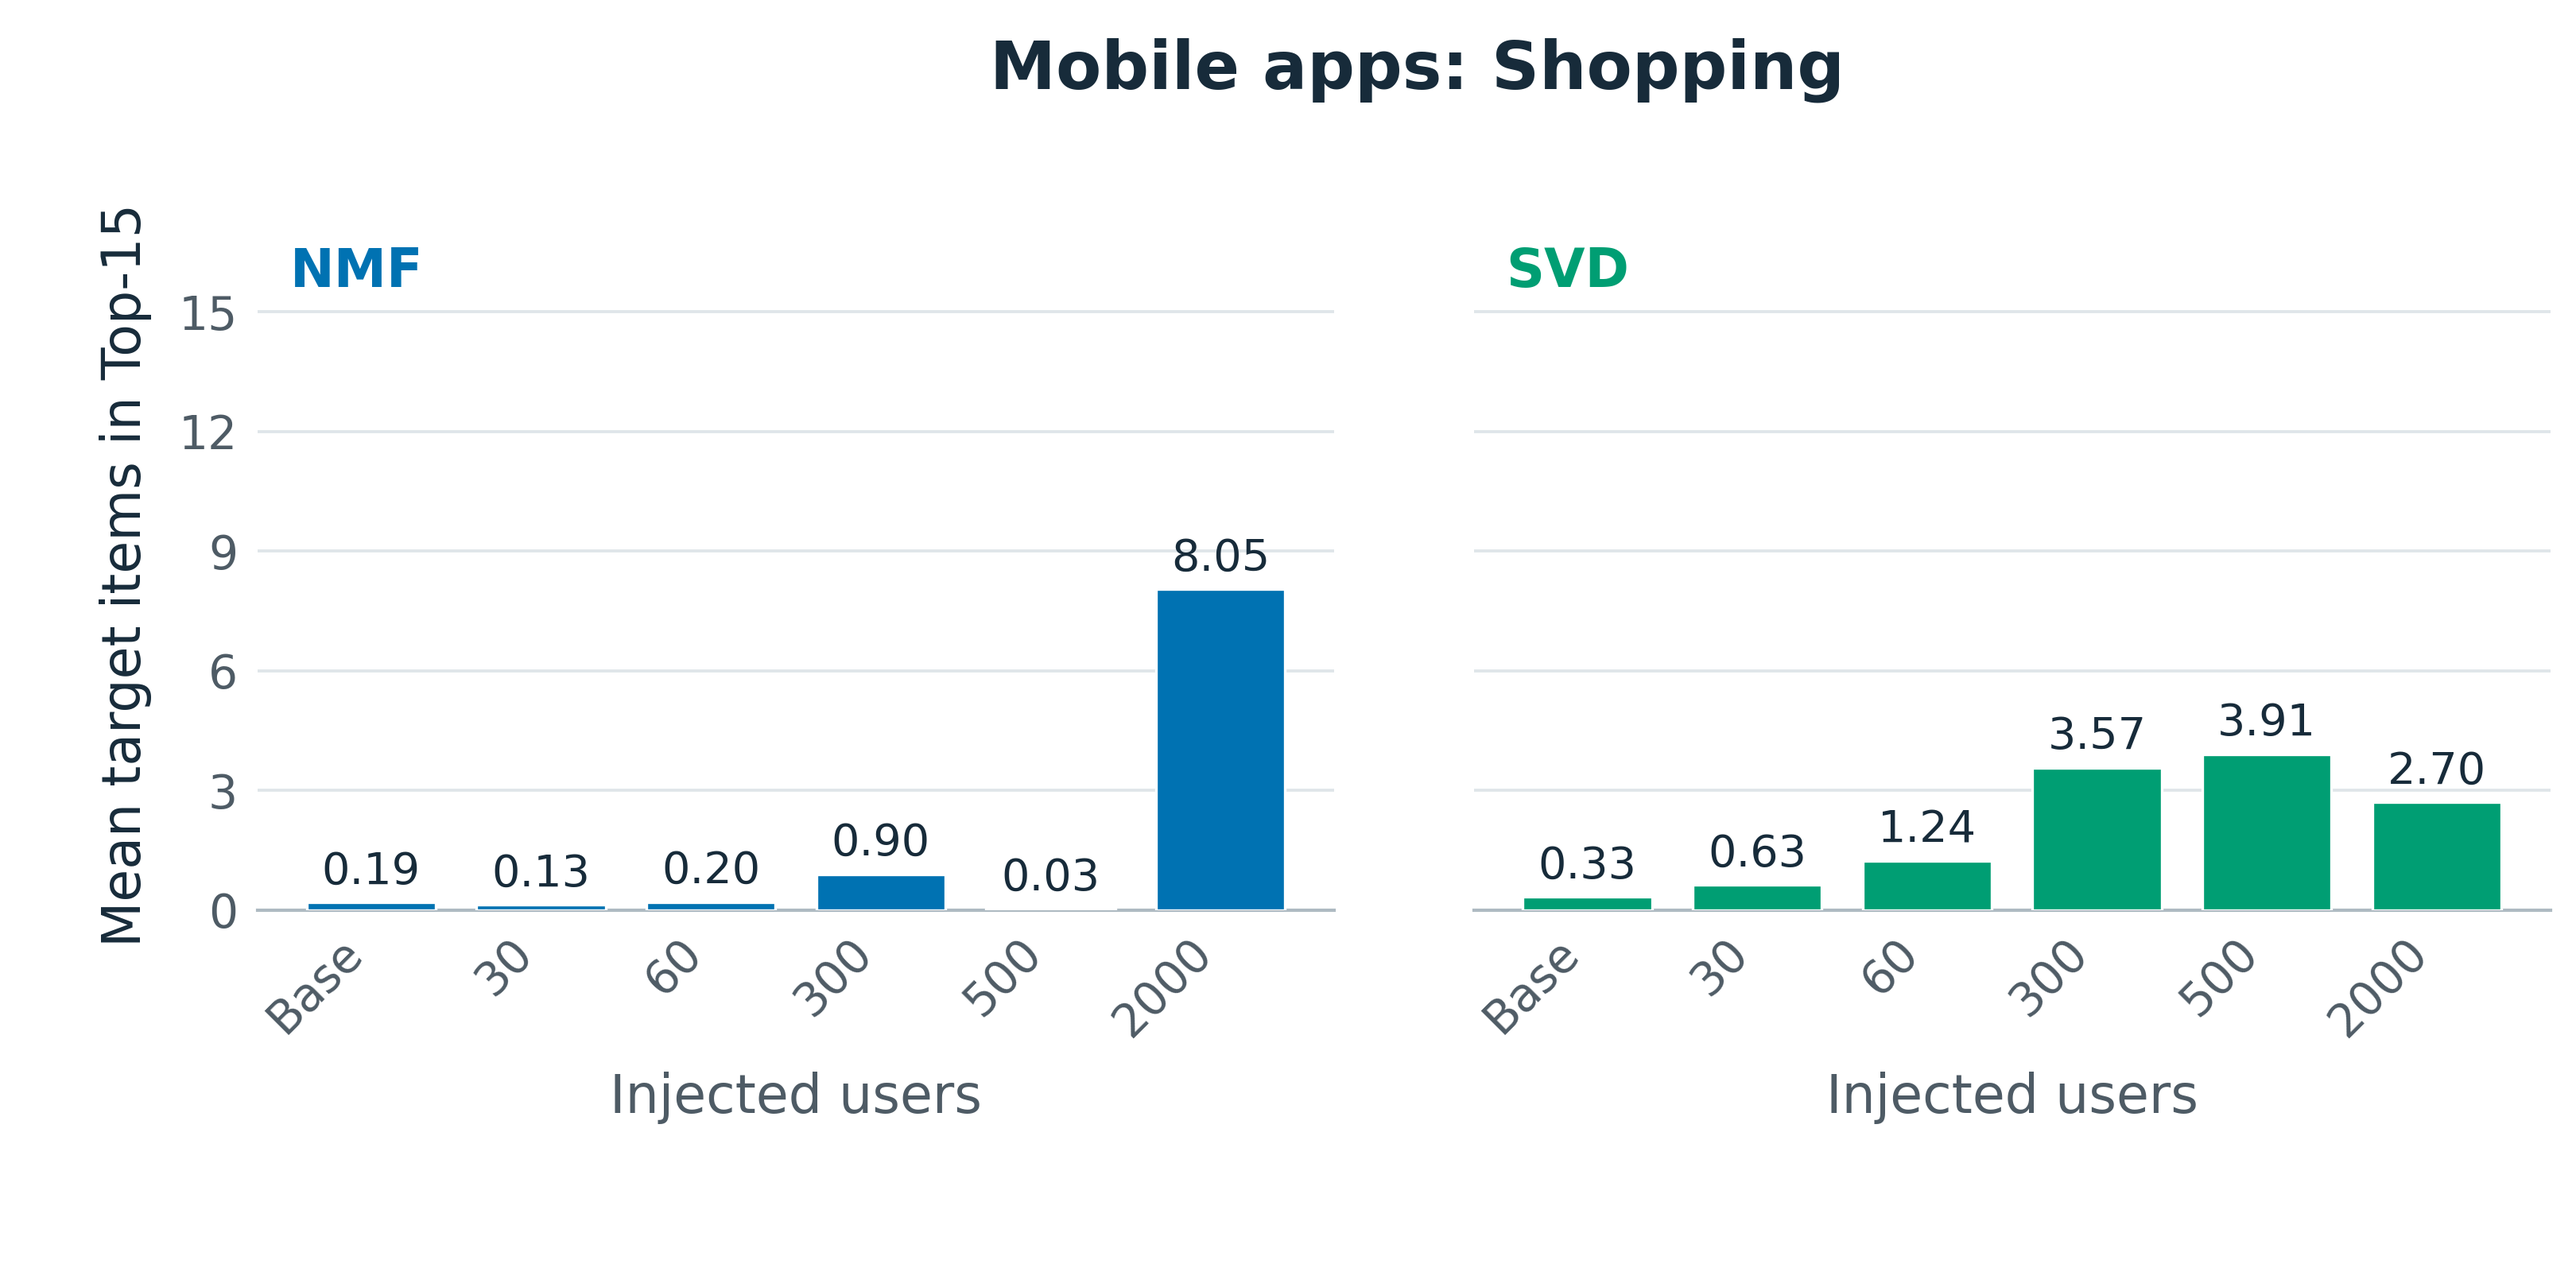
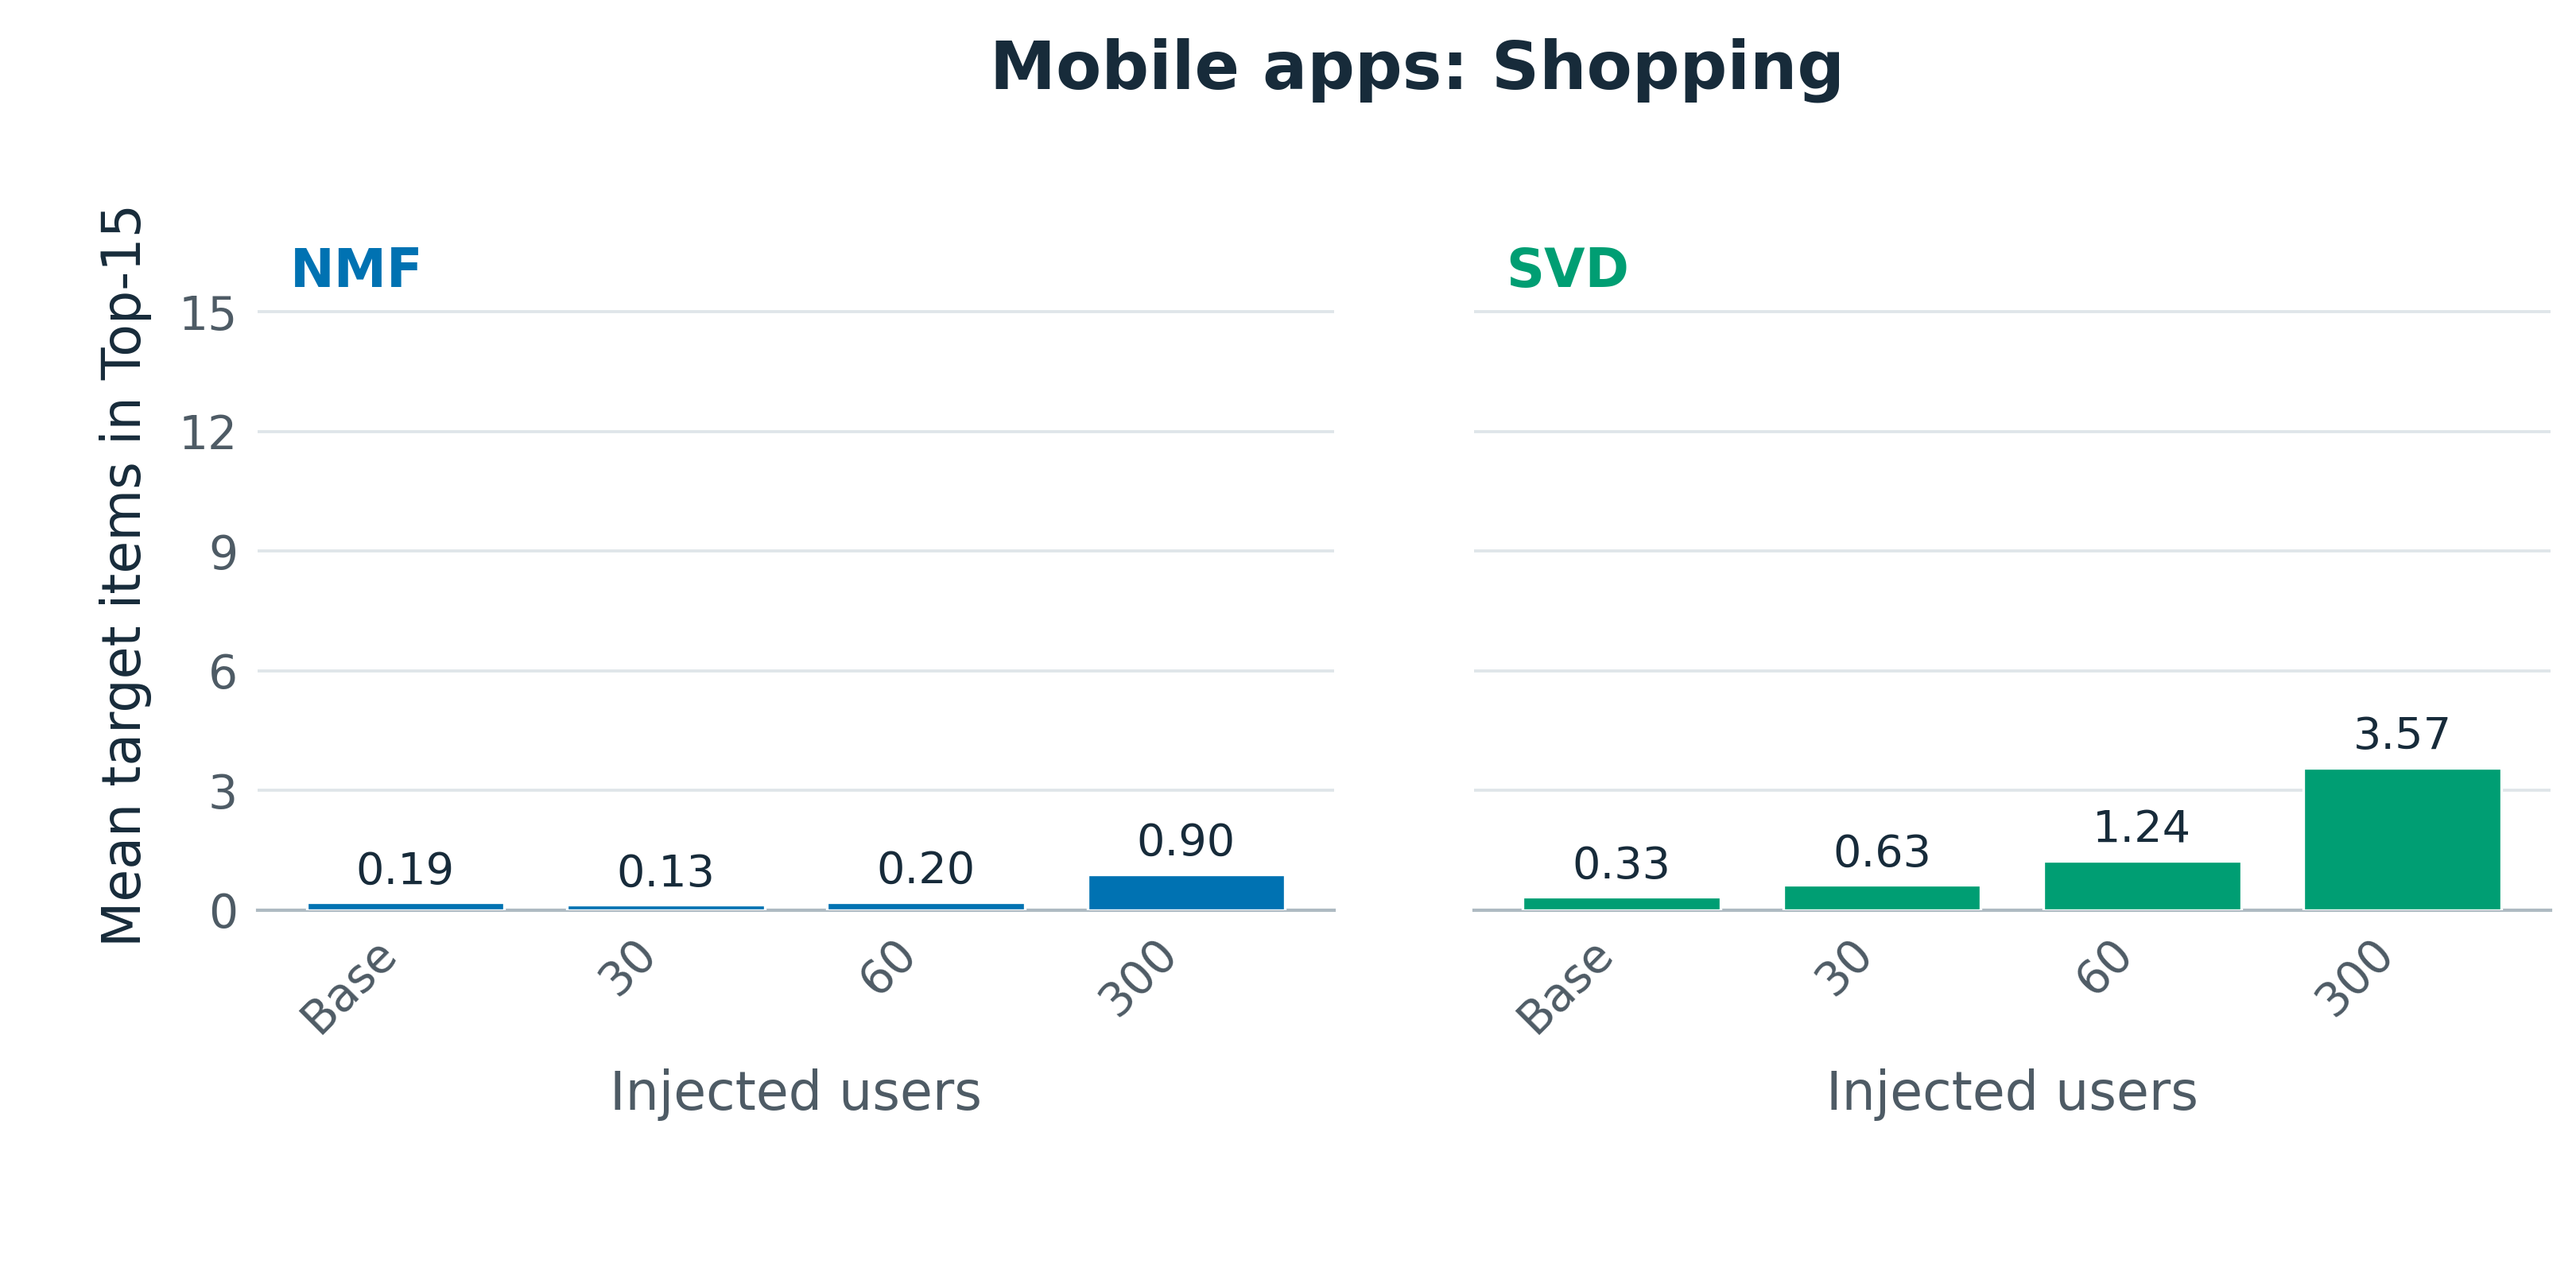
Limit mobile exposure panels to 300 injected users

diff --git a/First_paper_material/Book/notebook/build_recommendation_exposure.py b/First_paper_material/Book/notebook/build_recommendation_exposure.py
@@ -9,7 +9,7 @@ from matplotlib.ticker import MultipleLocator
 ROOT=Path('/home/moshtasa/Research/phd-recsys');OUT=ROOT/'First_paper_material/Book';DATA=OUT/'data';SINGLE=OUT/'recommendation_exposure';DATA.mkdir(parents=True,exist_ok=True);SINGLE.mkdir(parents=True,exist_ok=True)
 L=ROOT/'Book/current/PerturbRec/svd_nmf/layer1'
 book_file=L/'tables/controlled_thriller_top15.csv';book=pd.read_csv(book_file)
-configs=[('Books','Thriller',500,53424,'book_thriller_top15.png'),('Mobile apps','Shopping',2000,700111,'mobile_shopping_top15.png'),('Movies','1990s',50,943,'movie_1990s_top15.png')]
+configs=[('Books','Thriller',500,53424,'book_thriller_top15.png'),('Mobile apps','Shopping',300,700111,'mobile_shopping_top15.png'),('Movies','1990s',50,943,'movie_1990s_top15.png')]
 records=[];sources=[]
 def parse(path):
  current=None;result={}
@@ -29,14 +29,14 @@ for dataset,target,limit,N,name in configs:
    check=pd.read_csv(L/'tables/topk_target_union/summary.csv');check=check[(check.model==model)&(check.genre=='Thriller')&(check.k==15)&(check.n_fake<=500)].sort_values('n_fake');assert np.allclose(d.mean_target_count.to_numpy(),check.mean_target_count.to_numpy(),atol=1e-12)
   elif dataset=='Mobile apps':
    source=ROOT/f'Mobile/archive/0405/0405_{model.upper()}/result/{model.upper()}_bar_figures/{model}_shopping_analysis/{model.upper()} - Shopping.txt';pairs={n:v for n,v in parse(source).items() if n<=limit}
-   assert sorted(pairs)==[0,30,60,300,500,2000]
+   assert sorted(pairs)==[0,30,60,300]
   else:
    source=ROOT/f'Movie /current/0519/{model.upper()}_0519/result/0519_{model.upper()}_bar_figures/{model}_decade_1990_analysis/{model.upper()} - Decade 1990.txt';pairs=parse(source);assert sorted(pairs)==[0,2,6,10,50]
   for n,(value,users) in sorted(pairs.items()):
    assert 0<=value<=15 and users==N
    records.append(dict(dataset=dataset,target=target,model=model.upper(),k=15,n_fake=n,n_real_users=users,mean_target_count=value,source=str(source),source_precision='full CSV precision' if dataset=='Books' else 'four decimals in original analysis output'))
   sources.append({'dataset':dataset,'model':model.upper(),'file':str(source),'sha256':hashlib.sha256(source.read_bytes()).hexdigest()})
-df=pd.DataFrame(records);assert len(df)==40;assert not df.duplicated(['dataset','model','n_fake']).any()
+df=pd.DataFrame(records);assert len(df)==36;assert not df.duplicated(['dataset','model','n_fake']).any()
 df.to_csv(DATA/'recommendation_exposure_top15.csv',index=False)
 NAVY='#172B3A';MUTED='#4E5B65';COLORS={'NMF':'#0072B2','SVD':'#009E73'}
 plt.rcParams.update({'font.family':'DejaVu Sans','font.size':8,'axes.titlesize':9,'axes.titleweight':'bold','axes.labelsize':8,'xtick.labelsize':7,'ytick.labelsize':7,'axes.spines.top':False,'axes.spines.right':False,'axes.spines.left':False,'axes.linewidth':.5,'savefig.facecolor':'white','figure.facecolor':'white'})
@@ -68,7 +68,7 @@ for dataset,target,limit,N,name in configs:
  fig.suptitle(f'{dataset}: {target}',fontsize=10,fontweight='bold',color=NAVY,x=.55,y=.97)
  fig.subplots_adjust(left=.10,right=.99,top=.81,bottom=.28,wspace=.13)
  fig.savefig(SINGLE/name,dpi=600);plt.close(fig)
-(OUT/'recommendation_exposure_caption.md').write_text('Mean number of target-category items in the top-15 recommendations for original users: (a) Thriller books, (b) Shopping applications, and (c) movies released in the 1990s. NMF and SVD are shown in the top and bottom rows, respectively. Book injections extend to 500 users, mobile injections to 2,000 users, and movie injections to 50 users. Baseline denotes training without synthetic users.\n\nThe x-axis is categorical within each dataset; injection counts and original user populations differ between datasets. The shared y-axis counts items out of 15.\n\nFor full-width display with the MDPI class, use an adjustwidth environment with arguments {-\\extralength}{0cm} and include the PNG at width=\\fulllength.\n')
-validation={'rows':len(df),'k':15,'no_retraining':True,'book_matches_two_controlled_CSVs':True,'dose_limits':{'Books':500,'Mobile apps':2000,'Movies':50},'sources':sources,'source_numeric_values_unchanged':True,'combined_layout':'2 model rows x 3 dataset columns','all_y_axes_shared':True,'png_dpi':600,'source_precision_note':'Mobile and movie means are faithfully reproduced at the four-decimal precision saved by their original analysis scripts.'}
+(OUT/'recommendation_exposure_caption.md').write_text('Mean number of target-category items in the top-15 recommendations for original users: (a) Thriller books, (b) Shopping applications, and (c) movies released in the 1990s. NMF and SVD are shown in the top and bottom rows, respectively. Book injections extend to 500 users, mobile injections to 300 users, and movie injections to 50 users. Baseline denotes training without synthetic users.\n\nThe x-axis is categorical within each dataset; injection counts and original user populations differ between datasets. The shared y-axis counts items out of 15.\n\nFor full-width display with the MDPI class, use an adjustwidth environment with arguments {-\\extralength}{0cm} and include the PNG at width=\\fulllength.\n')
+validation={'rows':len(df),'k':15,'no_retraining':True,'book_matches_two_controlled_CSVs':True,'dose_limits':{'Books':500,'Mobile apps':300,'Movies':50},'sources':sources,'source_numeric_values_unchanged':True,'combined_layout':'2 model rows x 3 dataset columns','all_y_axes_shared':True,'png_dpi':600,'source_precision_note':'Mobile and movie means are faithfully reproduced at the four-decimal precision saved by their original analysis scripts.'}
 (DATA/'recommendation_exposure_validation.json').write_text(json.dumps(validation,indent=2))
 print(df[['dataset','model','n_fake','mean_target_count']].to_string(index=False));print('SAVED',OUT/'recommendation_exposure_top15.png');print('SEPARATE',SINGLE)

diff --git a/First_paper_material/Book/recommendation_exposure_caption.md b/First_paper_material/Book/recommendation_exposure_caption.md
@@ -1,4 +1,4 @@
-Mean number of target-category items in the top-15 recommendations for original users: (a) Thriller books, (b) Shopping applications, and (c) movies released in the 1990s. NMF and SVD are shown in the top and bottom rows, respectively. Book injections extend to 500 users, mobile injections to 2,000 users, and movie injections to 50 users. Baseline denotes training without synthetic users.
+Mean number of target-category items in the top-15 recommendations for original users: (a) Thriller books, (b) Shopping applications, and (c) movies released in the 1990s. NMF and SVD are shown in the top and bottom rows, respectively. Book injections extend to 500 users, mobile injections to 300 users, and movie injections to 50 users. Baseline denotes training without synthetic users.
 
 The x-axis is categorical within each dataset; injection counts and original user populations differ between datasets. The shared y-axis counts items out of 15.
 
